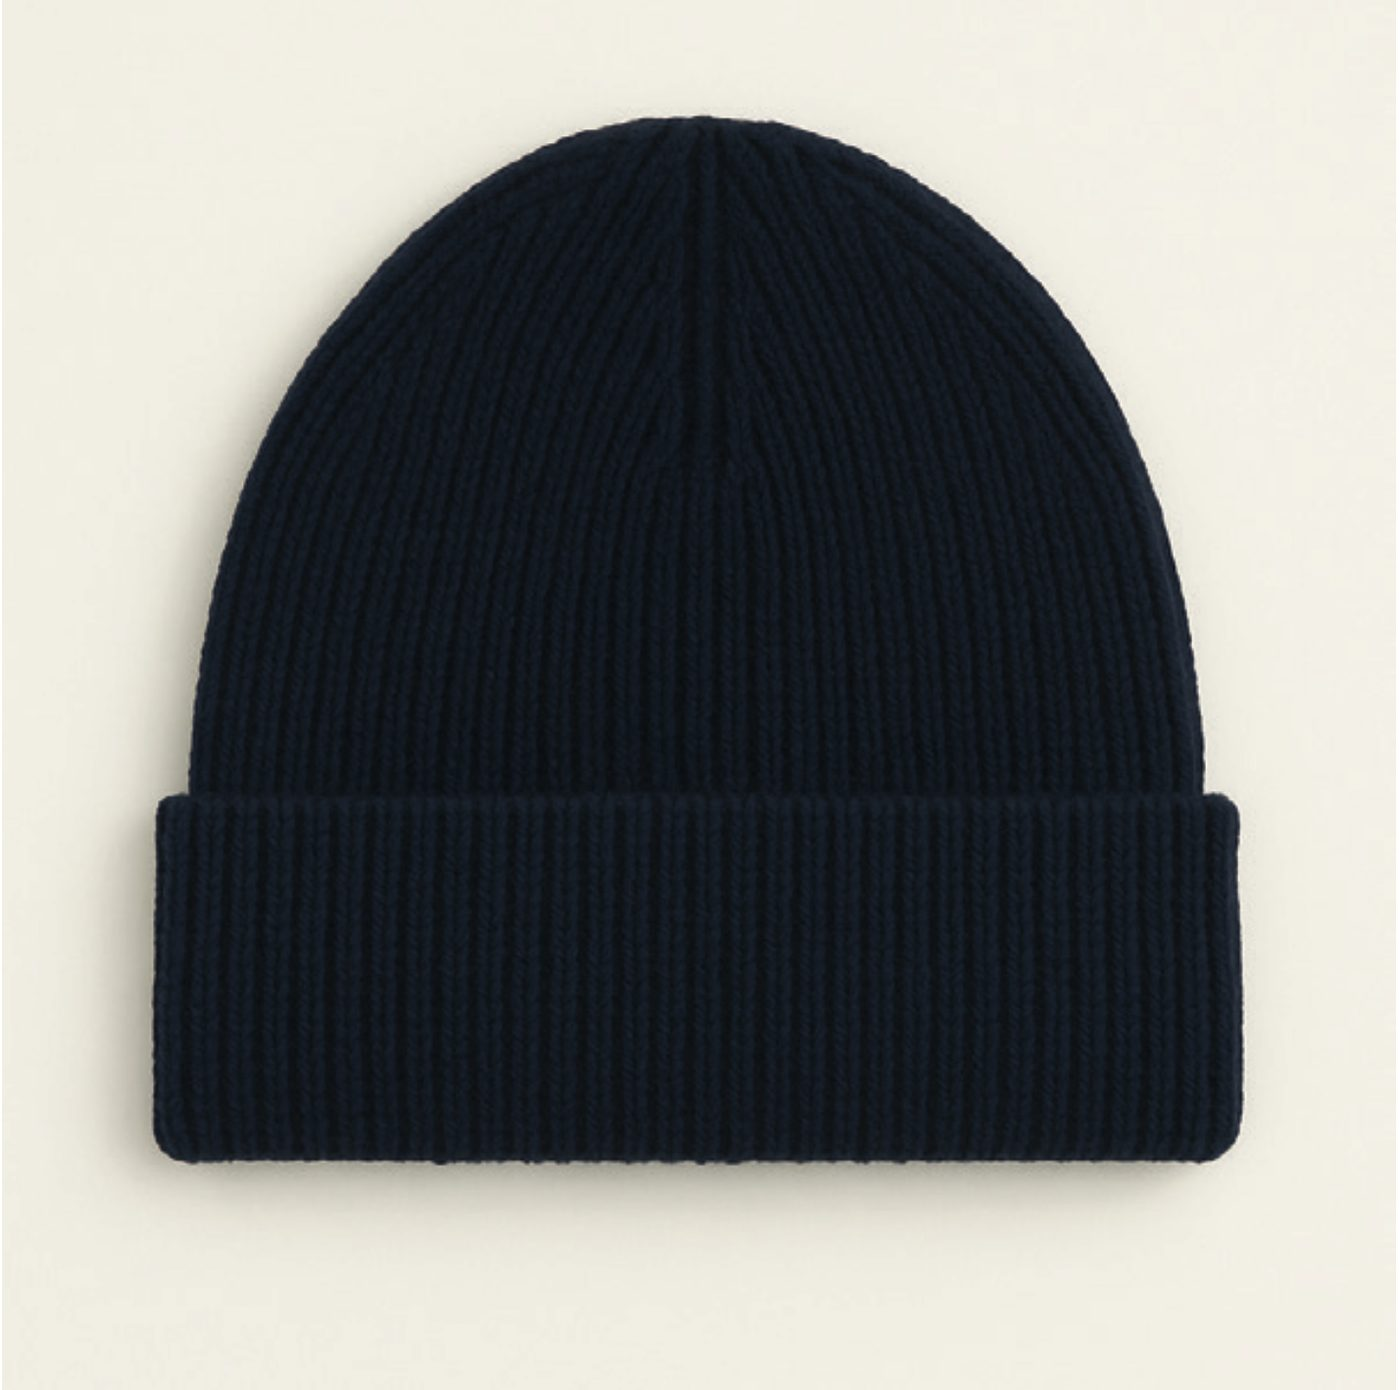
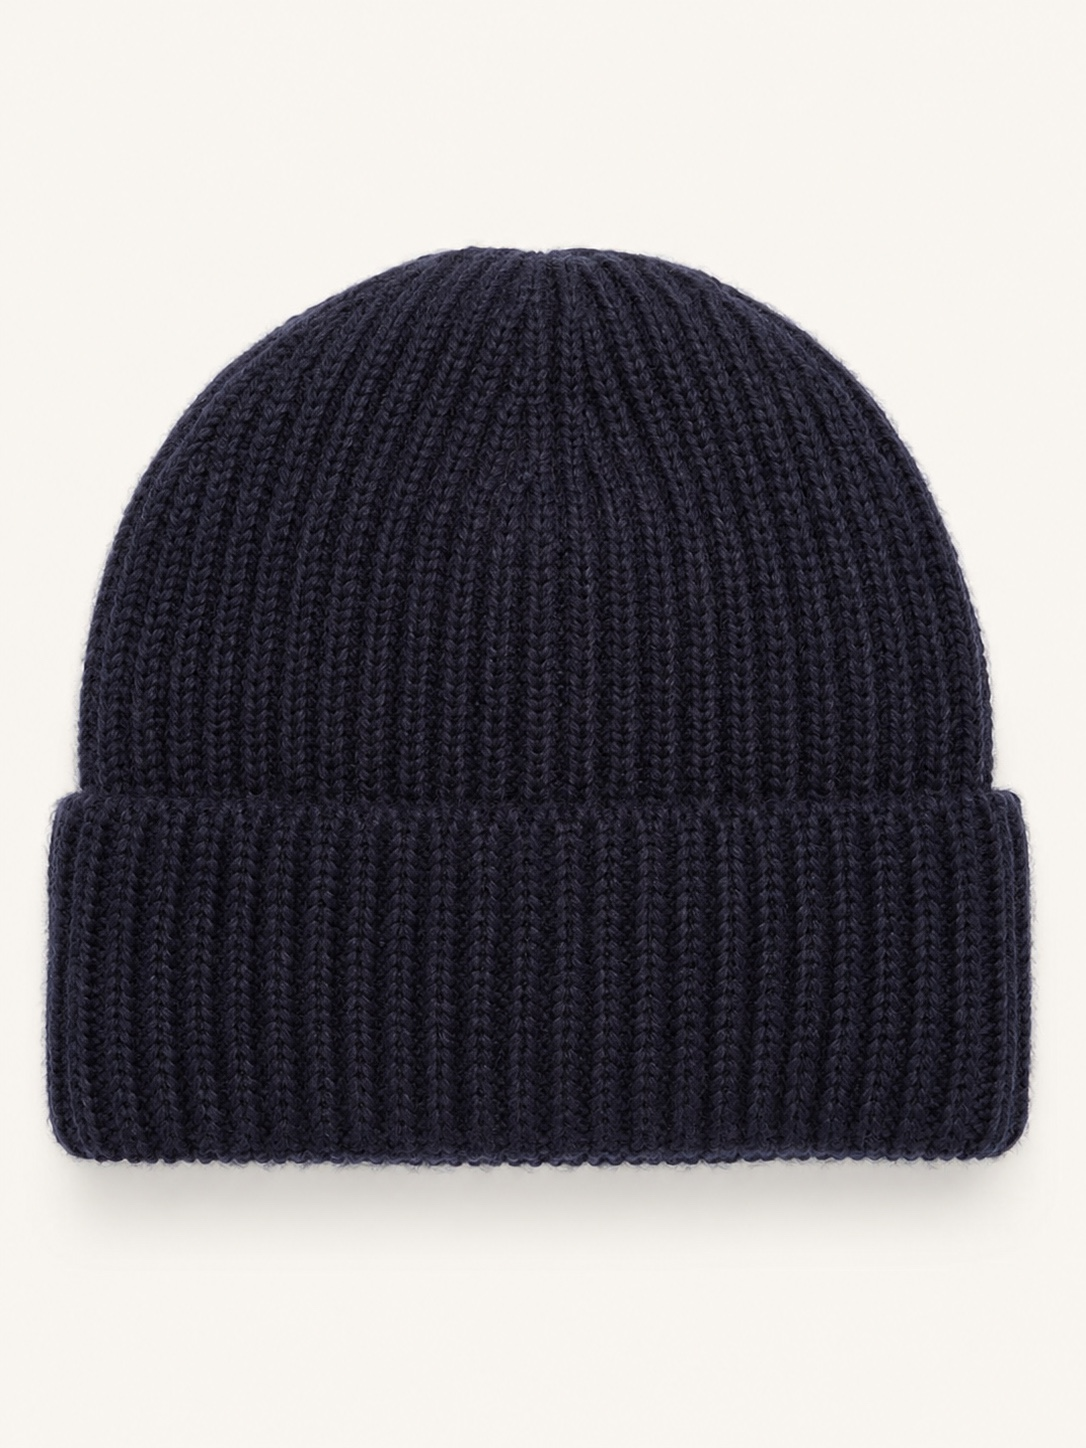
Actualizar colores del gorro liso

Changed region(s): [[0.0304, 0.0619, 0.9724, 0.8971]]

diff --git a/script.js b/script.js
@@ -1236,7 +1236,7 @@ Object.entries(winterImageAdditionsByProductId).forEach(([productId, photoNumber
   ])].sort((a, b) => a - b);
 });
 
-const IMAGE_ASSET_VERSION = "20260804-3";
+const IMAGE_ASSET_VERSION = "20260804-4";
 
 function versionImageSrc(src) {
   return `${src}?v=${IMAGE_ASSET_VERSION}`;
@@ -2731,7 +2731,7 @@ function openModal(p) {
     if (!gallerySrcs.length) return;
     galleryIdx = index;
     const targetSrc = gallerySrcs[index];
-    const showFullAccessoryImage = ((p.id === 88 || p.id === 89) && index > 0) || p.id === 99 || p.id === 100;
+    const showFullAccessoryImage = ([88, 89, 90].includes(p.id) && index > 0) || p.id === 99 || p.id === 100;
     modalImg.style.objectFit = showFullAccessoryImage ? 'contain' : 'cover';
     modalImgWrap.style.background = showFullAccessoryImage ? 'var(--bone)' : '#d6c8b7';
     const isFirstImage = !modalImg.src || modalImg.style.display === 'none';

diff --git a/index.html b/index.html
@@ -154,6 +154,6 @@
     <p>BYE BYE — BYE BYE</p>
   </footer>
 
-  <script src="script.js?v=20260804-6"></script>
+  <script src="script.js?v=20260804-7"></script>
 </body>
 </html>
